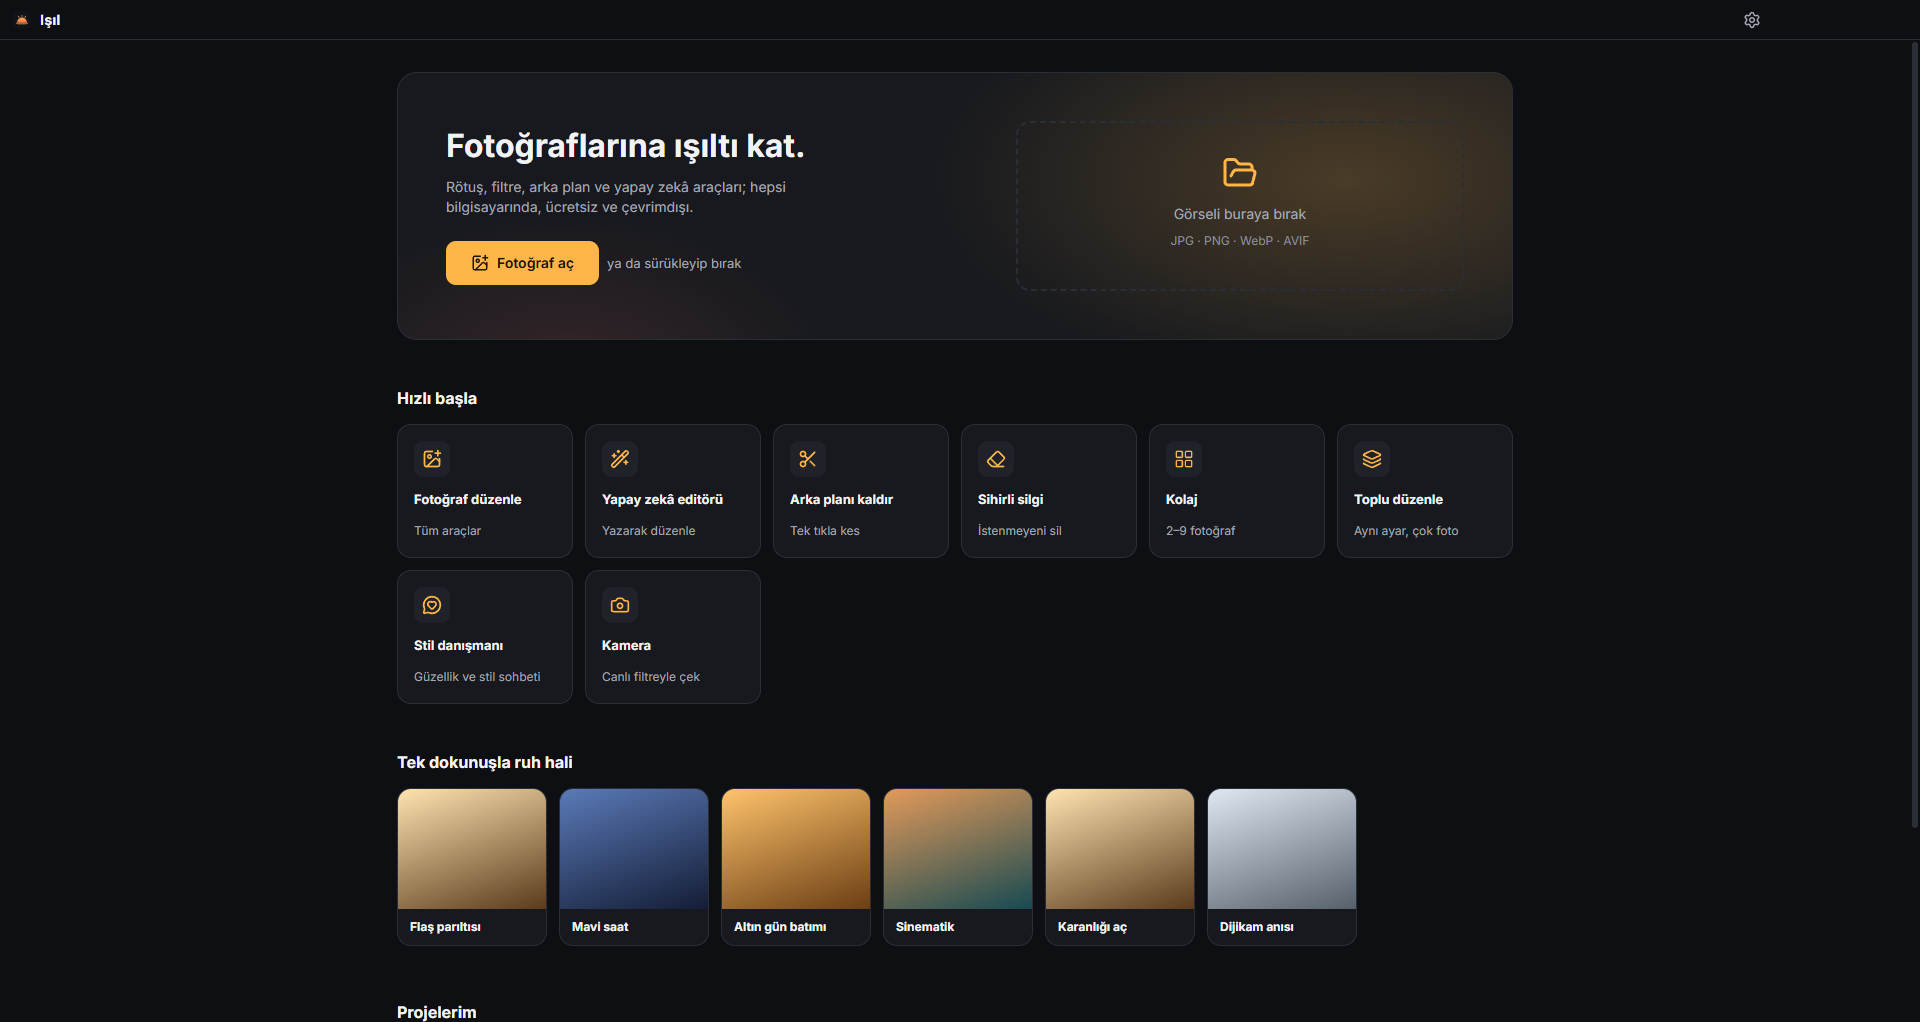
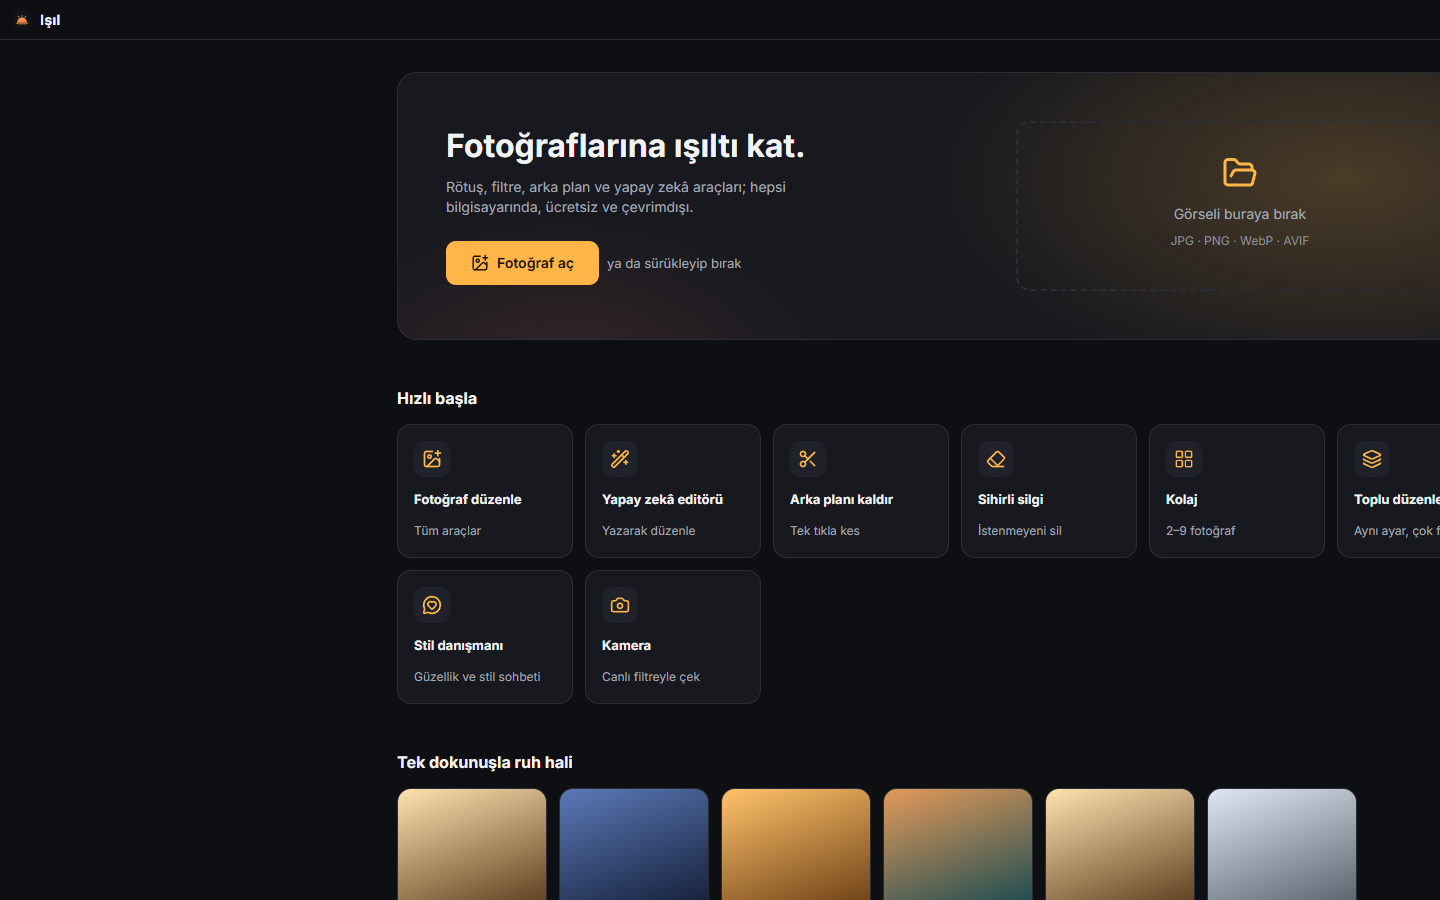
Bükme: katlanma denetimi (foldGuard); korumalı incelt kenarındaki ikilenme
Son bükme alanında Jacobian determinantı 0,05'in altına inerse alan ikili
aramayla küçültülür. Denetim korumalı inceltmede maskenin keskin geçişinin
kenarı ters örneklediğini buldu; maske ağırlığı ızgarada yumuşatıldı.
engine/__pycache__ yok sayılıyor.

smoke 11/11, ui-sweep 36/36, audit 41/41, protect 6/6, body-fill 4/4.

diff --git a/src/renderer/src/engine/body.ts b/src/renderer/src/engine/body.ts
@@ -162,19 +162,42 @@ export function applyBodyBands(field: Float32Array, gw: number, gh: number, pose
   }
 }
 
-/** Arka planı koru: alanı kişi maskesiyle (çıktı konumunda) çarp; arka plan pikselleri yerinde kalır. */
+/**
+ * Arka planı koru: alanı kişi maskesiyle (çıktı konumunda) çarp; arka plan pikselleri yerinde kalır.
+ * Ağırlık ızgarada yumuşatılır: keskin geçiş, silüet kenarında örneklemeyi ters çevirip (katlanma)
+ * kenarı ikiler. Katlanma denetimi (foldGuard) bunu yakaladı; 3 hücrelik geçişle det > 0 kalıyor.
+ */
 export function maskField(field: Float32Array, gw: number, gh: number, seg: { w: number; h: number; background: Float32Array }) {
+  let w = new Float32Array(gw * gh)
   for (let j = 0; j < gh; j++) {
     const sy = Math.min(seg.h - 1, Math.floor(((j + 0.5) / gh) * seg.h))
     for (let i = 0; i < gw; i++) {
       const sx = Math.min(seg.w - 1, Math.floor(((i + 0.5) / gw) * seg.w))
       const p = 1 - seg.background[sy * seg.w + sx]
       const t = Math.min(1, Math.max(0, (p - 0.2) / 0.4))
-      const w = t * t * (3 - 2 * t)
-      const k = (j * gw + i) * 2
-      field[k] *= w
-      field[k + 1] *= w
+      w[j * gw + i] = t * t * (3 - 2 * t)
     }
+  }
+  // iki geçişli kutu bulanıklığı (yarıçap 3 hücre)
+  const R = 3
+  for (let pass = 0; pass < 2; pass++) {
+    const t = new Float32Array(gw * gh)
+    for (let j = 0; j < gh; j++) for (let i = 0; i < gw; i++) {
+      let s = 0, n = 0
+      for (let k = -R; k <= R; k++) { const x = i + k; if (x >= 0 && x < gw) { s += w[j * gw + x]; n++ } }
+      t[j * gw + i] = s / n
+    }
+    const u = new Float32Array(gw * gh)
+    for (let j = 0; j < gh; j++) for (let i = 0; i < gw; i++) {
+      let s = 0, n = 0
+      for (let k = -R; k <= R; k++) { const y = j + k; if (y >= 0 && y < gh) { s += t[y * gw + i]; n++ } }
+      u[j * gw + i] = s / n
+    }
+    w = u
+  }
+  for (let q = 0; q < gw * gh; q++) {
+    field[q * 2] *= w[q]
+    field[q * 2 + 1] *= w[q]
   }
 }
 

diff --git a/src/renderer/src/engine/face.ts b/src/renderer/src/engine/face.ts
@@ -286,6 +286,38 @@ export function addMlsField(field: Float32Array, gw: number, gh: number, W: numb
   }
 }
 
+/**
+ * Katlanma denetimi (Ar-Ge 2): ters eşleme f(p) = p + o(p) her hücrede yönünü korumalı (det J > 0).
+ * Aşırı ayar birleşimlerinde det minDet'in altına inerse bütün alan ikili aramayla bulunan α ile
+ * küçültülür; normal ayarlarda alana dokunulmaz. Uygulanan α döner (1 = değişmedi).
+ */
+export function foldGuard(field: Float32Array, gw: number, gh: number, W: number, H: number, minDet = 0.05): number {
+  const cw = W / gw, ch = H / gh
+  const minJ = (a: number) => {
+    let m = Infinity
+    for (let j = 0; j < gh - 1; j++) {
+      for (let i = 0; i < gw - 1; i++) {
+        const k = (j * gw + i) * 2, kx = k + 2, ky = k + gw * 2
+        // o piksel cinsinden; J = I + ∇o
+        const dxx = ((field[kx] - field[k]) * W * a) / cw, dyx = ((field[kx + 1] - field[k + 1]) * H * a) / cw
+        const dxy = ((field[ky] - field[k]) * W * a) / ch, dyy = ((field[ky + 1] - field[k + 1]) * H * a) / ch
+        const det = (1 + dxx) * (1 + dyy) - dxy * dyx
+        if (det < m) m = det
+      }
+    }
+    return m
+  }
+  if (minJ(1) >= minDet) return 1
+  let lo = 0, hi = 1
+  for (let it = 0; it < 10; it++) {
+    const mid = (lo + hi) / 2
+    if (minJ(mid) >= minDet) lo = mid
+    else hi = mid
+  }
+  for (let k = 0; k < field.length; k++) field[k] *= lo
+  return lo
+}
+
 /** Bükme alanı: kaynak uv cinsinden örnekleme ofseti, gw×gh ızgara (RG). */
 export function buildField(ops: WarpOp[], W: number, H: number, extra?: Float32Array | null, gw = 0, gh = 0): { field: Float32Array; gw: number; gh: number } | null {
   if (!ops.length && !extra) return null

diff --git a/src/renderer/src/engine/session.ts b/src/renderer/src/engine/session.ts
@@ -2,7 +2,7 @@
 import type { EditDoc, Project, Settings } from '@shared/schema'
 import { platform } from '@/lib/platform'
 import { Renderer, legCanvasOk, type OutputInfo } from './renderer'
-import { addMlsField, allProtect, buildField, contourPairs, buildMasks, buildProtectMask, faceOps, faceUniforms, FaceGeo, faceHasSkinWork, type MaskSet } from './face'
+import { addMlsField, allProtect, buildField, foldGuard, contourPairs, buildMasks, buildProtectMask, faceOps, faceUniforms, FaceGeo, faceHasSkinWork, type MaskSet } from './face'
 import { applyBodyBands, applyManualBody, bodyOps, legBand, maskField } from './body'
 import { drawLayers } from './layers'
 import { detectFaces, detectPose, segmentPerson, type PersonParts, type Pt } from '@/ai/vision'
@@ -214,8 +214,16 @@ class Session {
       const cx = this.pose ? (this.pose[11].x + this.pose[12].x + this.pose[23].x + this.pose[24].x) / 4 : 0.5
       applyManualBody(res.field, res.gw, res.gh, doc.body.manual, cx)
     }
+    // katlanma denetimi: canlı liquify alanı (base) yerinde düzenlendiği için kopya üzerinde
+    if (res) {
+      if (res.field === this.liveField?.field) res = { ...res, field: Float32Array.from(res.field) }
+      this.foldScale = foldGuard(res.field, res.gw, res.gh, W, H)
+    }
     return res
   }
+
+  /** Son bükme alanında katlanma denetiminin uyguladığı ölçek (1 = dokunulmadı). */
+  foldScale = 1
 
   /**
    * Yalnız vücut şekli alanı (otomatik kaydırıcılar + bacak bandı; elle bölge hariç).

diff --git a/replica/arge/02-yuz-bukme.md b/replica/arge/02-yuz-bukme.md
@@ -97,7 +97,7 @@ Yeni hali (`engine/body.ts` → `applyBodyBands`):
 2. **Yapıldı (16.10), canlı sürüm:** Vücut aracında "Arka planı koru" anahtarı var (`BodyEdit.protect`). Vücut şekli alanı (bel, kalça, incelt ve diğer `bodyOps`) ayrı bir ızgarada kuruluyor. Bu ızgara kişi maskesiyle (çıktı konumunda, yumuşak eşik 0,2–0,6) çarpılıp ana alana ekleniyor. Bacak uzatma maskelenmiyor, satır bütünlüğü bozulmasın diye. İncelt 100 ölçümü: kişinin hemen dışındaki şeritte ortalama kayma 1,85 px'ten 0,72 px'e indi (kalan kısım, optik akışın kenardaki yayılması). Bel/kalça zaten gövde içinde, değişiklik yok. **Kalan:** kişi inceldikçe eski silüetin içinde kalan şerit, dışarıdan örneklenen arka planla doluyor (ince bir uzama). **Doldurma yapıldı (16.10):** Vücut panelinde "Boşluğu YZ ile doldur ve uygula" düğmesi var. Vücut alanı (`session.bodyField`) tam çözünürlükte CPU'da kaynağa uygulanıyor (`bakeBodyWarp`, çift doğrusal). Şerit maskesi şu koşulla çıkarılıyor: kişi(p) > 0,5 ve kişi(p + ofset) < 0,5. Şerit 320 px'lik karolarda, 96 px kenar payıyla LaMa'ya veriliyor. Tek seferde verildiğinde görüntü 512'ye küçülüyor, sonuç bulanıklaşıyor, maske şişip kolları siliyordu. Sonuç raster işlem olarak kaydediliyor ve vücut kaydırıcıları aynı geri alma adımında sıfırlanıyor. Tam boy fotoğrafta 3.593 piksellik şerit dolduruldu (`tests/e2e/body-fill.mjs` 4/4). Sınır: Kola yakın şeritte LaMa kolun kenarını biraz soluklaştırabiliyor. İlk tasarım notu: **Vücutta "Arka planı koru" (Tolga, 16.10):** incelt/bel/kalça alanı kişi maskesiyle çarpılır; kişi incelince açılan kenar şeridi LaMa ile arka planla doldurulur. Şekillendir aracındaki anahtarın vücut kaydırıcılarındaki karşılığı (Peachy'de "Korumak", ücretli). 1'deki silüete dayanır.
 3. ~~**Bacak uzatmada tuval büyütme**~~ **yapıldı (16.10):** Bacak bandı (kalça → ayak bileği) artık çıktı uzayında uygulanıyor. Tuvalin yüksekliği (1 + band × s) katına çıkıyor, s en uçta 0,2. MAIN gölgelendiricisinde görüntü uv'si satır satır eşleniyor: bandın üstü değişmiyor, band içi geriliyor, altı aşağı kayıyor. Zemin artık kırpılmıyor. Tam boy fotoğrafta bacak 100'de tuval 1778'den 1832 px'e uzadı. Döndürme, çeyrek dönüş ya da perspektif varsa eski yöntem kullanılıyor (alan içinde uzatma). Korumalı boşluk doldurma bacak uzatmayı fotoğrafa işlemiyor, ayar olarak bırakıyor.
 4. **Bacak uzatmada arka planı koru:** yalnız kişi bandı uzar, açılan zemin LaMa ile üretilir (yavaş; isteğe bağlı).
-5. **Katlanma denetimi:** alanın Jacobian determinantı 0'ın altına inerse güç kırpılsın.
+5. ~~**Katlanma denetimi**~~ **yapıldı (16.10):** `foldGuard` (`engine/face.ts`), son bükme alanında her ızgara hücresinin Jacobian determinantına bakıyor (ters eşleme, piksel cinsinden). En küçük det 0,05'in altına inerse bütün alan ikili aramayla bulunan α ile küçültülüyor. Normal ayarlarda alana dokunmuyor. Yüz ve vücuttaki aşırı birleşimlerde (8 kaydırıcı birden en uçta) α = 1 kaldı. **Denetim gerçek bir hata buldu:** Korumalı incelt 100'de kişi maskesinin keskin geçişi silüet kenarında örneklemeyi ters çeviriyordu, kenar ikileniyordu (α = 0,65'e düşüyordu). `maskField` ağırlığı artık ızgarada 3 hücrelik kutu bulanıklığıyla yumuşatılıyor, α = 1.
 
 ## Kaynaklar
 

diff --git a/CHANGELOG.md b/CHANGELOG.md
@@ -7,6 +7,7 @@ Her büyük güncellemede sürüm numarası artırılır (`npm version <x.y.z> -
 - Rötuş → Cilt: "İşaretleri koru" fırçası. Dövme, ben, çil ya da hızmanın üzerine boyanır; leke giderme, pürüzsüzleştirme, kırışık ve ten tonu o bölgeye uygulanmaz. Boya/Sil, fırça boyutu, "Korumayı temizle". Dövmeli yüzde (yumuşat 80 + leke 60) dövme bölgesindeki değişim 3,5 → 0,33, yanakta yumuşama aynı (`tests/e2e/protect.mjs`)
 - Yüz şekli: incelt, genişlik, şakak, elmacık, çene hattı ve V çizgisi artık kontur kısıtlı MLS bükmesiyle çalışıyor. Yalnız yüz çizgisi oynuyor, ağız/burun/gözler yerinde kalıyor (incelt 100'de ağız kayması 4,5 → 0,5 px). Güç rakiplerin aralığına çekildi (en büyük kayma 48 → 12 px). Üç çeyrek yüzlerde geniş görünen taraf daha çok oynuyor. Eski projelerde bu kaydırıcılar daha hafif görünür (`replica/arge/02-yuz-bukme.md`)
 - Vücut: "Arka planı koru" anahtarı; incelt, bel ve kalça yalnız kişiye uygulanır, arkadaki duvar/sütun oynamaz. Bacak kısaltma (eksi değer) yeniden çalışıyor. "Boşluğu YZ ile doldur ve uygula": incelen kişinin kenarında açılan şerit yerel LaMa ile arka planla doldurulur
+- Bükme güvenliği: aşırı ayar birleşimlerinde görüntünün kendi üstüne katlanması engelleniyor; korumalı inceltmede silüet kenarındaki ikilenme giderildi
 - Göz büyütme: daire yerine göz çizgisine hizalı elips; iki göz burun kökünde birleşmiyor, kaş oynamıyor
 - Vücut: "İncelt" kişi silüetini izliyor (bol giysi dahil) ve yalnız gövdeye uygulanıyor (arka plan sütunları/duvarlar bükülmüyor); "Bacak" satır tabanlı bant uzatma: zemin çizgileri düz kalıyor, tuval uzadığı için ayak altındaki zemin kırpılmıyor
 - Kararlılık: proje hızlı değişirken kapanmış önizlemenin MediaPipe bölütleyicisine gitmesi engellendi (konsoldaki "ROI width and height must be > 0" hatası)
